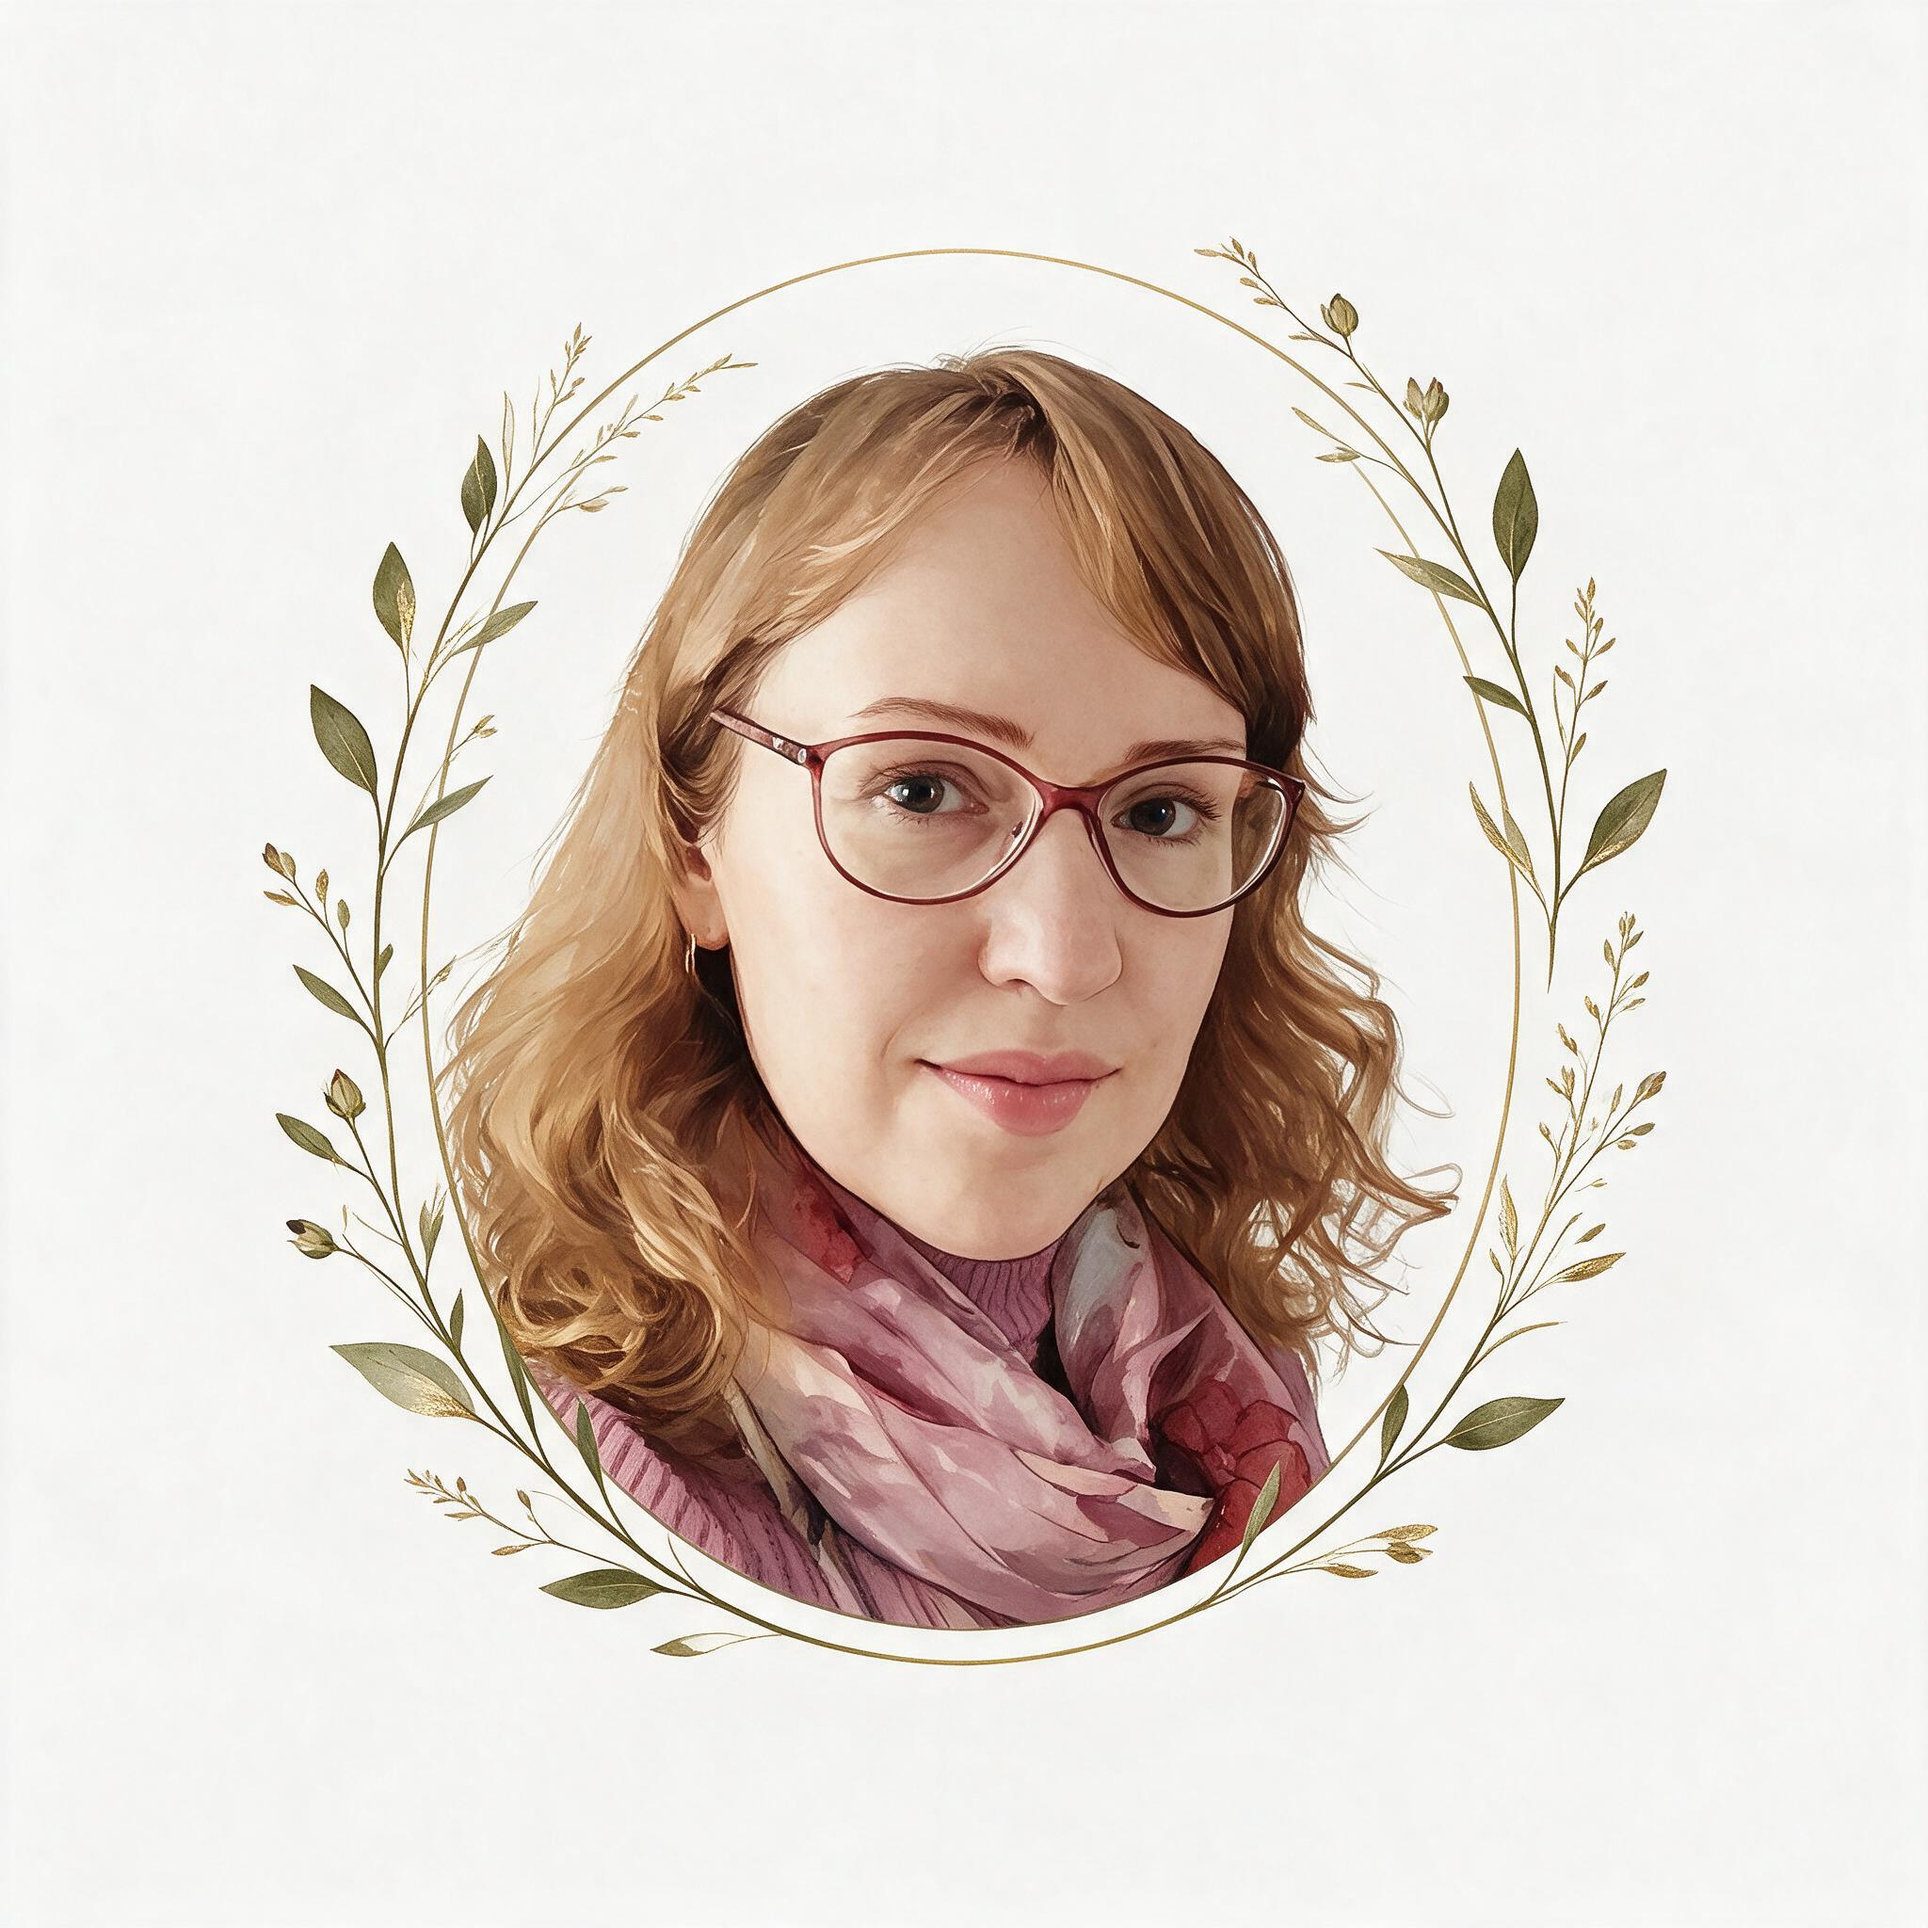
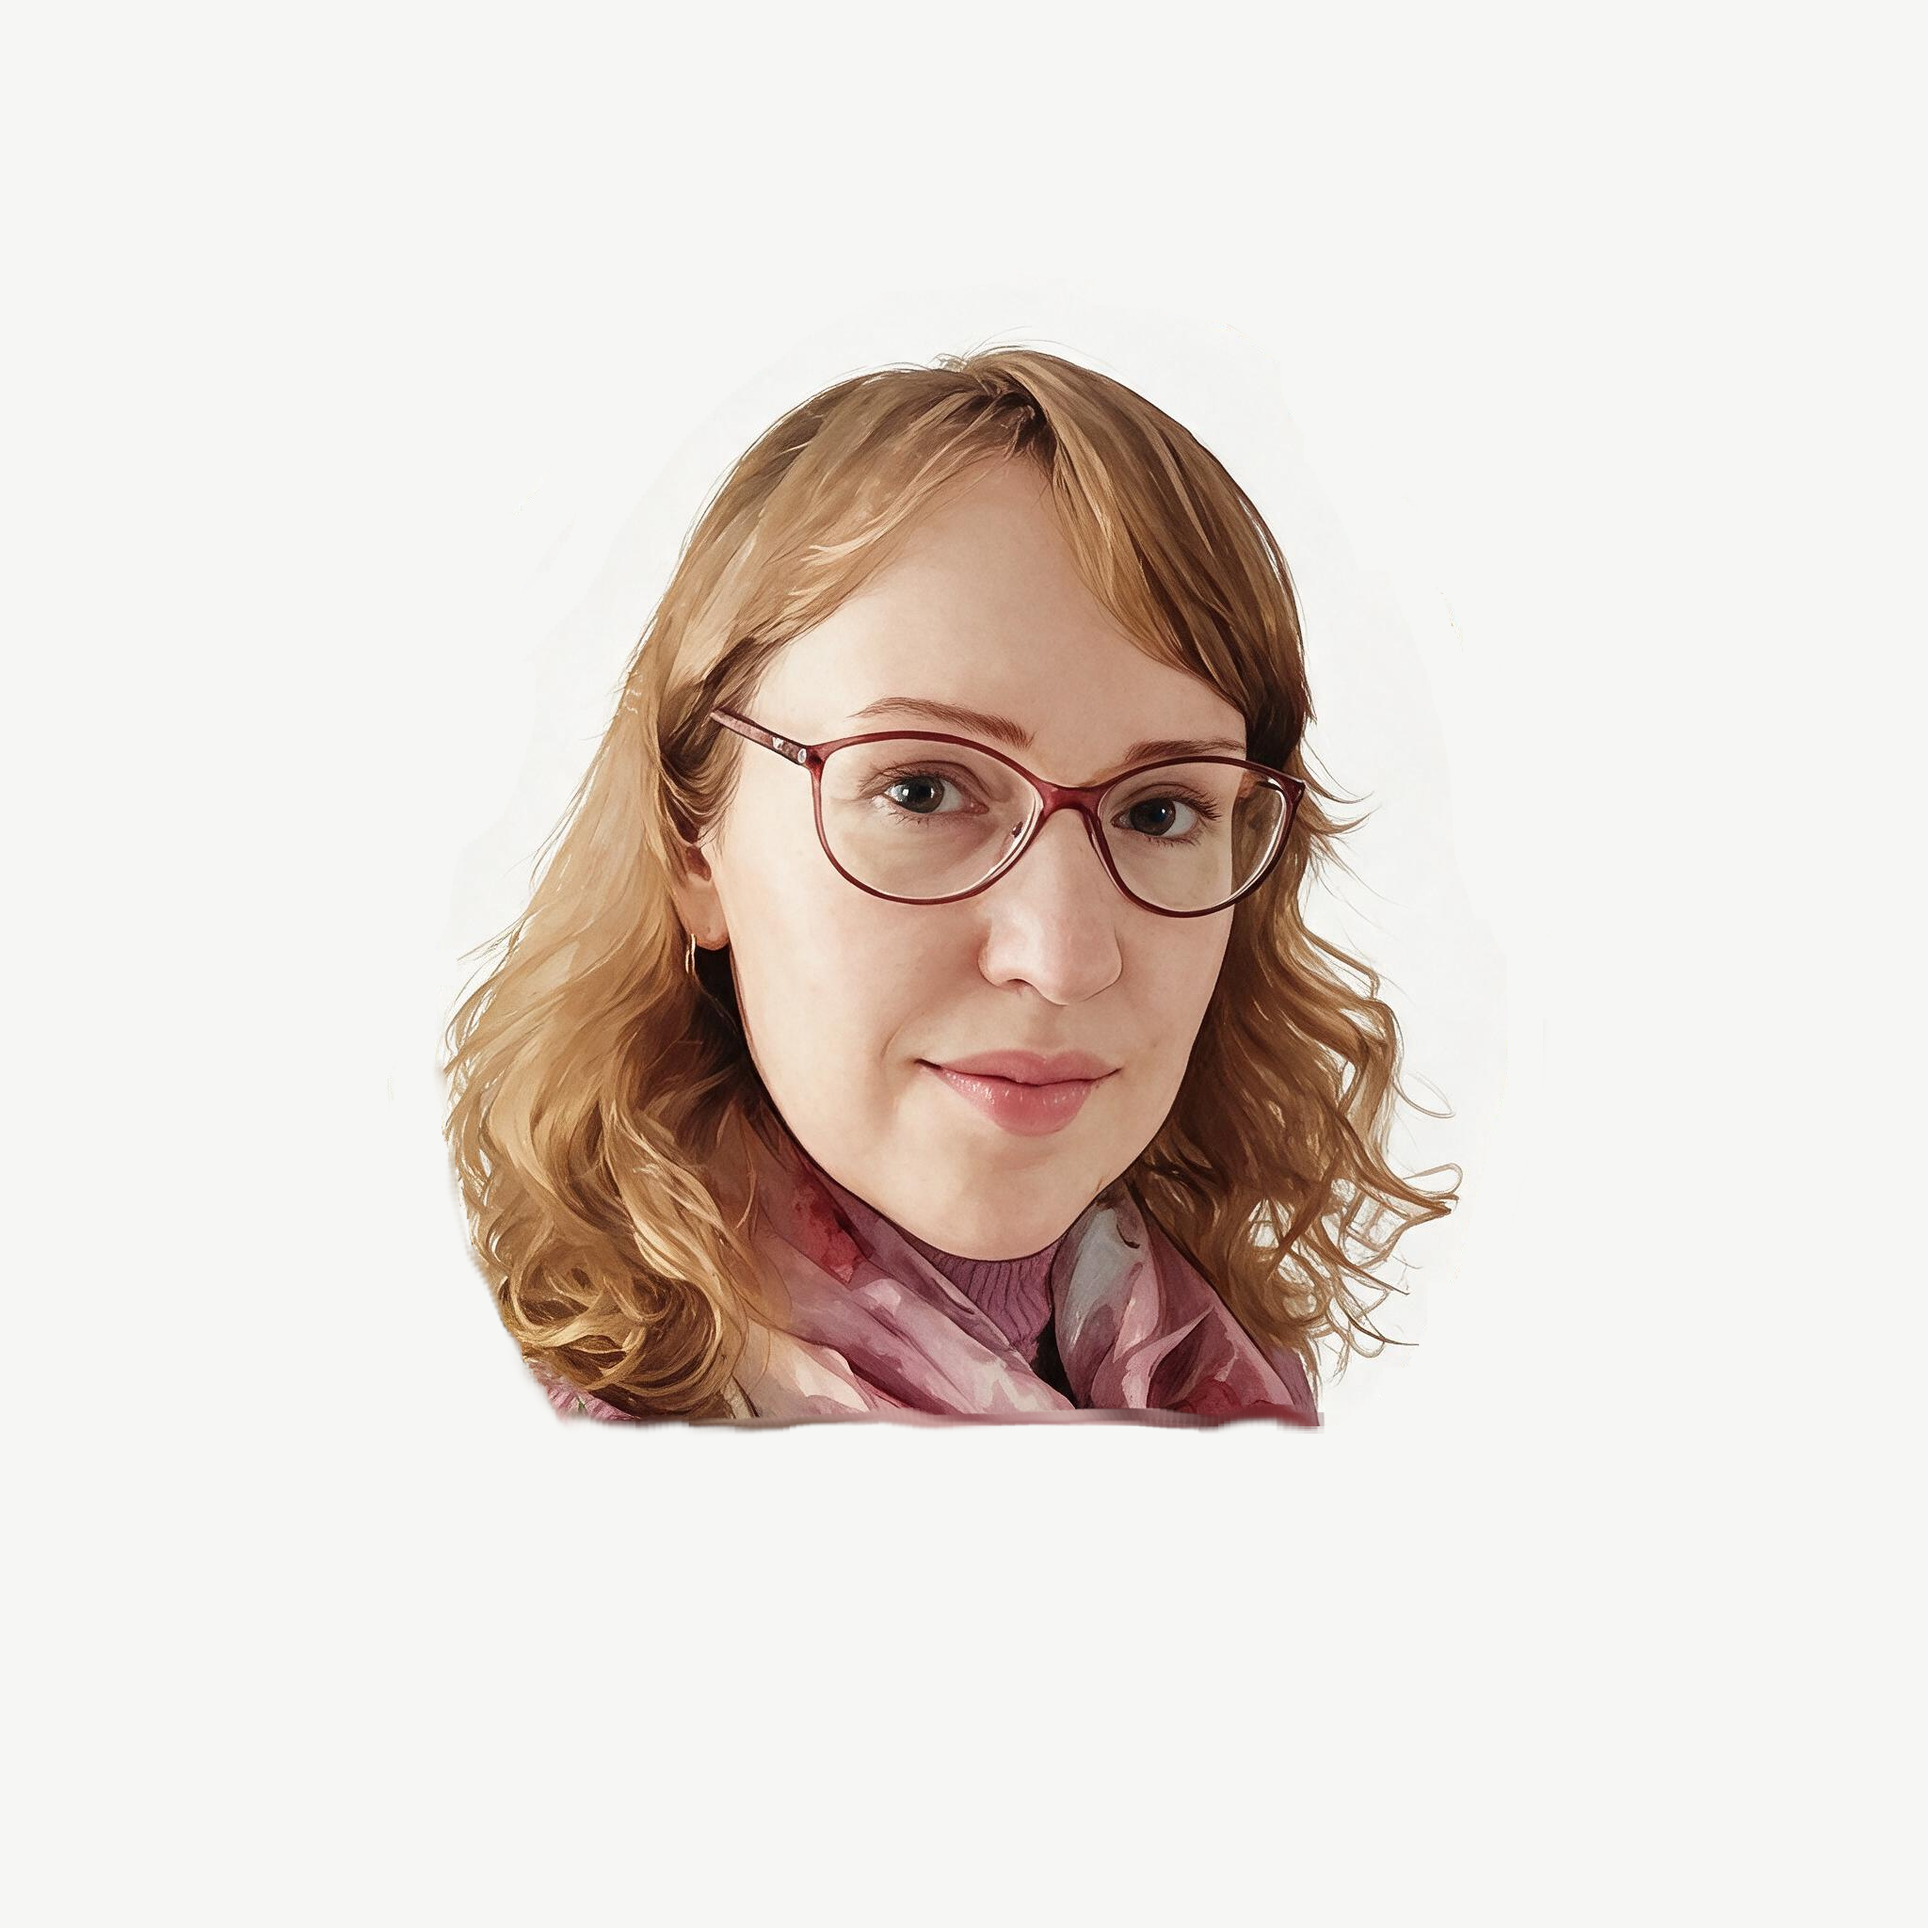
Add the new design

Changed region(s): [[0.125, 0.125, 0.875, 0.875]]

diff --git a/src/styles.css b/src/styles.css
@@ -3,7 +3,8 @@
   --bg: #f3ebe0;
   --bg-soft: #ebe2d4;
   --bg-deep: #e0d5c4;
-  --surface: rgba(250, 245, 237, 0.88);
+  --surface: #faf5ed;
+  --surface-glass: rgba(250, 245, 237, 0.96);
   --line: rgba(10, 92, 72, 0.14);
   --text: #2c2f2e;
   --muted: #5c615e;
@@ -13,7 +14,7 @@
   --olive: #6b705c;
   --sand: #c4b59a;
   --graphite: #3d3f3e;
-  --shadow: 0 18px 40px rgba(30, 69, 66, 0.08);
+  --shadow: 0 18px 40px rgba(30, 69, 66, 0.1);
   --radius: 4px;
   --container: min(1120px, calc(100vw - 40px));
   --heading-font: "Newsreader", "Times New Roman", serif;
@@ -30,7 +31,14 @@ html {
   scroll-behavior: smooth;
   min-height: 100%;
   background-color: var(--bg);
-  background-image: url("./assets/nature.jpg");
+  background-image:
+    linear-gradient(
+      180deg,
+      rgba(243, 235, 224, 0.28) 0%,
+      rgba(243, 235, 224, 0.34) 55%,
+      rgba(235, 226, 212, 0.42) 100%
+    ),
+    url("./assets/nature.jpg");
   background-size: cover;
   background-position: center center;
   background-repeat: no-repeat;
@@ -93,7 +101,7 @@ ul {
 }
 
 .section--soft {
-  background: rgba(235, 226, 212, 0.55);
+  background: rgba(250, 245, 237, 0.72);
 }
 
 .section--contact {
@@ -147,7 +155,7 @@ ul {
 .button--secondary:hover,
 .button--secondary:focus-visible {
   border-color: var(--accent);
-  background: rgba(250, 245, 237, 0.7);
+  background: var(--surface);
   color: var(--accent-deep);
 }
 
@@ -165,7 +173,7 @@ ul {
 .hero .button--ghost:hover,
 .hero .button--ghost:focus-visible {
   border-color: var(--accent);
-  background: rgba(250, 245, 237, 0.7);
+  background: var(--bg-soft);
   color: var(--accent-deep);
 }
 
@@ -201,8 +209,7 @@ ul {
   padding: 10px 16px;
   border: 1px solid var(--line);
   border-radius: var(--radius);
-  background: rgba(250, 245, 237, 0.92);
-  backdrop-filter: blur(16px);
+  background: var(--surface);
   box-shadow: 0 10px 28px rgba(8, 85, 68, 0.06);
 }
 
@@ -348,8 +355,7 @@ ul {
   padding: 36px 40px;
   border: 1px solid var(--line);
   border-radius: 12px;
-  background: rgba(250, 245, 237, 0.82);
-  backdrop-filter: blur(10px);
+  background: var(--surface);
   box-shadow: var(--shadow);
 }
 
@@ -422,15 +428,18 @@ ul {
   padding: 36px;
   border: 1px solid var(--line);
   border-radius: 12px;
-  background: rgba(250, 245, 237, 0.86);
-  backdrop-filter: blur(10px);
+  background: var(--surface);
   box-shadow: var(--shadow);
 }
 
 .about-profile__media {
+  justify-self: center;
+  width: min(100%, 340px);
   overflow: hidden;
-  border-radius: 12px;
-  background: var(--bg-soft);
+  border-radius: 50%;
+  border: 2px solid #c4a574;
+  box-shadow: 0 0 0 6px rgba(196, 165, 116, 0.18);
+  background: #faf5ed;
   aspect-ratio: 1;
 }
 
@@ -438,7 +447,24 @@ ul {
   width: 100%;
   height: 100%;
   object-fit: cover;
-  object-position: center top;
+  object-position: center 18%;
+}
+
+.about-profile__content {
+  position: relative;
+  padding-right: 56px;
+}
+
+.about-profile__content::after {
+  content: "";
+  position: absolute;
+  right: -8px;
+  top: 12px;
+  width: 52px;
+  height: 220px;
+  background: url("./assets/decor/leaves-right.png") no-repeat center top / contain;
+  opacity: 0.9;
+  pointer-events: none;
 }
 
 .about-profile__titles {
@@ -470,24 +496,72 @@ ul {
   color: var(--accent-deep);
 }
 
-/* About story */
+/* Section structure */
+.section-intro {
+  position: relative;
+  max-width: 560px;
+  margin-bottom: 40px;
+  padding: 28px 28px 28px 56px;
+  border: 1px solid var(--line);
+  border-radius: 12px;
+  background: var(--surface);
+  box-shadow: var(--shadow);
+}
+
+.section-intro::before {
+  content: "";
+  position: absolute;
+  left: 14px;
+  top: 28px;
+  width: 32px;
+  height: 150px;
+  background: url("./assets/decor/leaf-accent.png") no-repeat center top / contain;
+  opacity: 0.88;
+  pointer-events: none;
+}
+
+.section-intro--wide {
+  max-width: 720px;
+}
+
+.section-intro--wide::after {
+  content: "";
+  position: absolute;
+  right: -12px;
+  bottom: -8px;
+  width: 40px;
+  height: 170px;
+  background: url("./assets/decor/leaves-right.png") no-repeat center bottom / contain;
+  opacity: 0.55;
+  pointer-events: none;
+  transform: scaleX(-1);
+}
+
 .about-copy--wide {
+  position: relative;
   max-width: 760px;
+  padding: 32px 32px 32px 56px;
+  border: 1px solid var(--line);
+  border-radius: 12px;
+  background: var(--surface);
+  box-shadow: var(--shadow);
+}
+
+.about-copy--wide::before {
+  content: "";
+  position: absolute;
+  left: 12px;
+  top: 28px;
+  width: 34px;
+  height: 180px;
+  background: url("./assets/decor/leaves-left.png") no-repeat center top / contain;
+  opacity: 0.8;
+  pointer-events: none;
 }
 
 .about-copy p {
   margin-bottom: 18px;
   max-width: 58ch;
-}
-
-/* Section structure */
-.section-intro {
-  max-width: 560px;
-  margin-bottom: 40px;
-}
-
-.section-intro--wide {
-  max-width: 720px;
 }
 
 .section-intro h2,
@@ -532,6 +606,11 @@ ul {
   gap: 24px;
   align-items: end;
   margin-bottom: 34px;
+  padding: 28px 32px;
+  border: 1px solid var(--line);
+  border-radius: 12px;
+  background: var(--surface);
+  box-shadow: var(--shadow);
 }
 
 .list-lead {
@@ -557,6 +636,15 @@ ul {
 .credential-list,
 .check-list {
   list-style: none;
+}
+
+.section-split .credential-list,
+.check-list--columns {
+  padding: 8px 24px 16px;
+  border: 1px solid var(--line);
+  border-radius: 12px;
+  background: var(--surface);
+  box-shadow: var(--shadow);
 }
 
 .credential-list li,
@@ -600,7 +688,11 @@ ul {
 .pillars {
   display: grid;
   gap: 0;
-  border-top: 1px solid var(--line);
+  padding: 8px 28px;
+  border: 1px solid var(--line);
+  border-radius: 12px;
+  background: var(--surface);
+  box-shadow: var(--shadow);
 }
 
 .pillar {
@@ -644,7 +736,11 @@ ul {
 
 .process-step {
   position: relative;
-  padding-top: 8px;
+  padding: 24px 22px 22px;
+  border: 1px solid var(--line);
+  border-radius: 12px;
+  background: var(--surface);
+  box-shadow: var(--shadow);
 }
 
 .process-step::before {
@@ -762,8 +858,12 @@ ul {
 }
 
 .outcome {
-  padding-top: 8px;
-  border-top: 2px solid var(--accent);
+  padding: 22px 24px;
+  border: 1px solid var(--line);
+  border-top: 3px solid var(--accent);
+  border-radius: 12px;
+  background: var(--surface);
+  box-shadow: var(--shadow);
 }
 
 .outcome h3 {
@@ -785,7 +885,11 @@ ul {
 
 .testimonial {
   margin: 0;
-  padding: 0;
+  padding: 24px;
+  border: 1px solid var(--line);
+  border-radius: 12px;
+  background: var(--surface);
+  box-shadow: var(--shadow);
 }
 
 .testimonial p {
@@ -857,8 +961,11 @@ ul {
 .article-card {
   display: grid;
   gap: 14px;
-  padding-top: 8px;
-  border-top: 1px solid var(--line);
+  padding: 24px;
+  border: 1px solid var(--line);
+  border-radius: 12px;
+  background: var(--surface);
+  box-shadow: var(--shadow);
 }
 
 .article-card__meta {
@@ -919,6 +1026,11 @@ ul {
   grid-template-columns: minmax(0, 0.95fr) minmax(0, 1.05fr);
   gap: 40px;
   align-items: start;
+  padding: 36px;
+  border: 1px solid var(--line);
+  border-radius: 12px;
+  background: var(--surface);
+  box-shadow: var(--shadow);
 }
 
 .contact-grid {
@@ -964,8 +1076,12 @@ ul {
 .site-footer__inner,
 .site-footer__note,
 .site-footer__legal {
-  padding: 24px 0;
-  border-top: 1px solid var(--line);
+  padding: 24px 28px;
+  margin-top: 0;
+  border: 1px solid var(--line);
+  border-radius: 12px;
+  background: var(--surface);
+  box-shadow: var(--shadow);
 }
 
 .site-footer__inner {
@@ -973,6 +1089,11 @@ ul {
   justify-content: space-between;
   gap: 18px;
   align-items: center;
+  margin-bottom: 16px;
+}
+
+.site-footer__note {
+  margin-bottom: 16px;
 }
 
 .site-footer__note strong {
@@ -1044,8 +1165,20 @@ ul {
   }
 
   .about-profile__media {
-    max-width: 360px;
+    max-width: 300px;
     margin: 0 auto;
+  }
+
+  .about-profile__content {
+    padding-right: 0;
+  }
+
+  .about-profile__content::after {
+    display: none;
+  }
+
+  .section-intro--wide::after {
+    display: none;
   }
 
   .section-heading--split {
